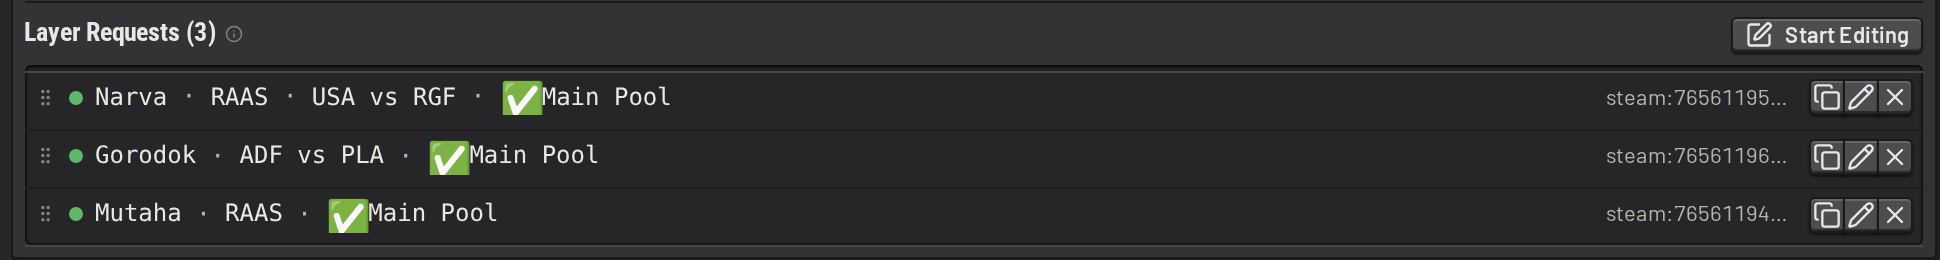
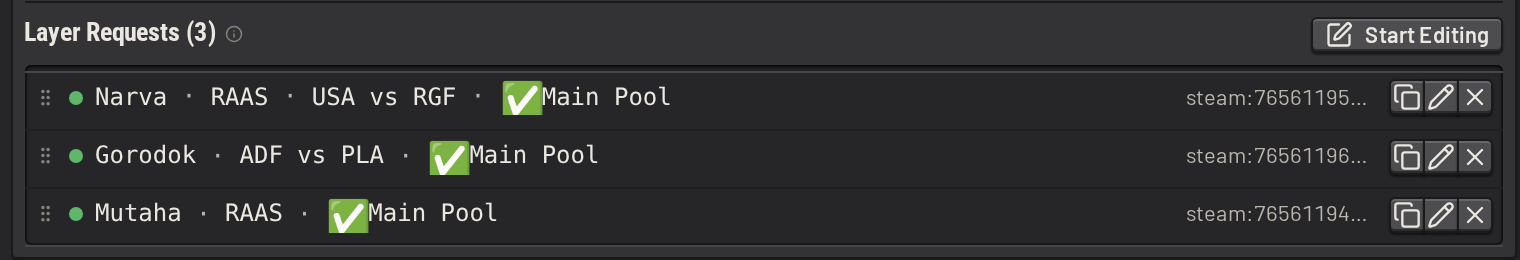
docs: show the queue item menu, narrow the other queue shots
The first layer queue shot opens a queue item's menu in the empty middle of the rows, and the queue section
describes that menu. vote_in_progress, repeat_hover, ingame_vote and layer_requests are taken at a 760px
column instead of 976px. The phone shot of Generate Vote is gone, and the layer requests paragraph names the
admin as the one requesting.

diff --git a/docs/features/layer_selection.md b/docs/features/layer_selection.md
@@ -17,7 +17,10 @@ Several admins can edit the queue at once, and each one sees who else is editing
 a generated vote, or as a whole rotation, pasted in or picked from the [saved rotations](#saved-rotations). Queue items
 can carry colour-coded tags and freeform notes.
 
-![the layer queue while editing, with a tagged and noted layer, a vote and an out-of-pool layer](../images/features/layer_queue.png)
+Right-click a queue item, or use its ⋮ button, to open the queue item's menu. The menu leads with the layer's details,
+scores and SquadCalc link, followed by the queue item's edit, tag, note and placement actions.
+
+![the layer queue while editing, with a queue item's menu open beside a tagged and noted layer, a vote and an out-of-pool layer](../images/features/layer_queue.png)
 
 ## The layer selection dialog
 
@@ -162,8 +165,6 @@ its own.
 
 ![the Generate Vote dialog](../images/features/generate_vote.png)
 
-![the Generate Vote dialog on a phone](../images/features/phone_gen_vote.png)
-
 A vote starts from the dashboard, in game with `/startvote`, or by itself partway into a match. Players vote by typing
 a choice's number in chat, and SLM broadcasts the choices and reminders to the server. An internal vote polls only the
 admins.
@@ -183,8 +184,8 @@ it. The server's dashboard shows that an in-game vote is deciding the next layer
 
 ## Layer requests
 
-A layer request asks for a layer with specific characteristics, without editing the queue by hand. A request names any
-mix of map, gamemode, faction, unit or filter. `/reqlayer fallu raas usa rgf` requests Fallujah RAAS with USA against
+An admin can request a kind of layer instead of queuing a particular one. A request names any mix of map, gamemode,
+faction, unit or filter. `/reqlayer fallu raas usa rgf` requests Fallujah RAAS with USA against
 RGF. When the queue runs out of deliberately queued layers, SLM generates the next layer from the requests, and
 satisfies as many of them as it can at once. If one admin requests WPMC and another requests Narva, the generated layer
 can be WPMC on Narva.
